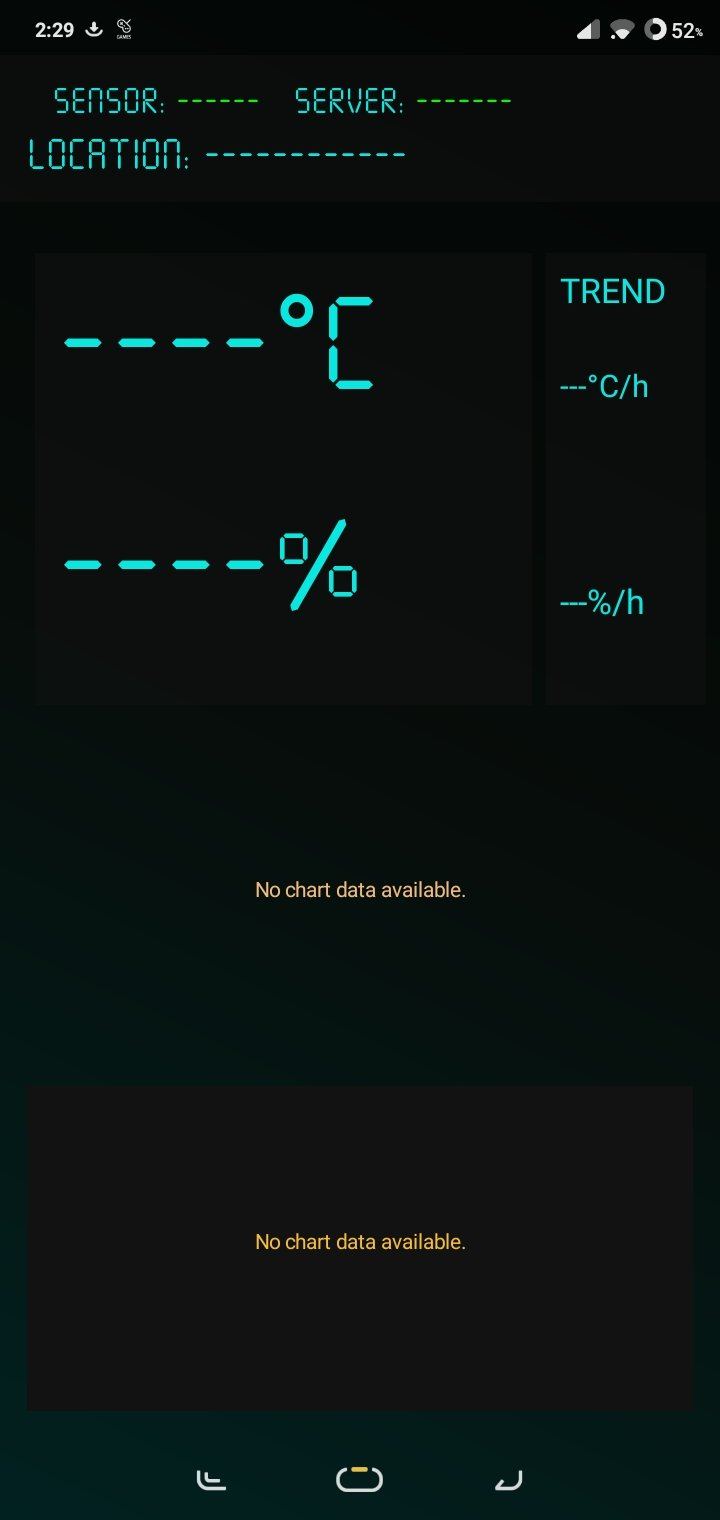
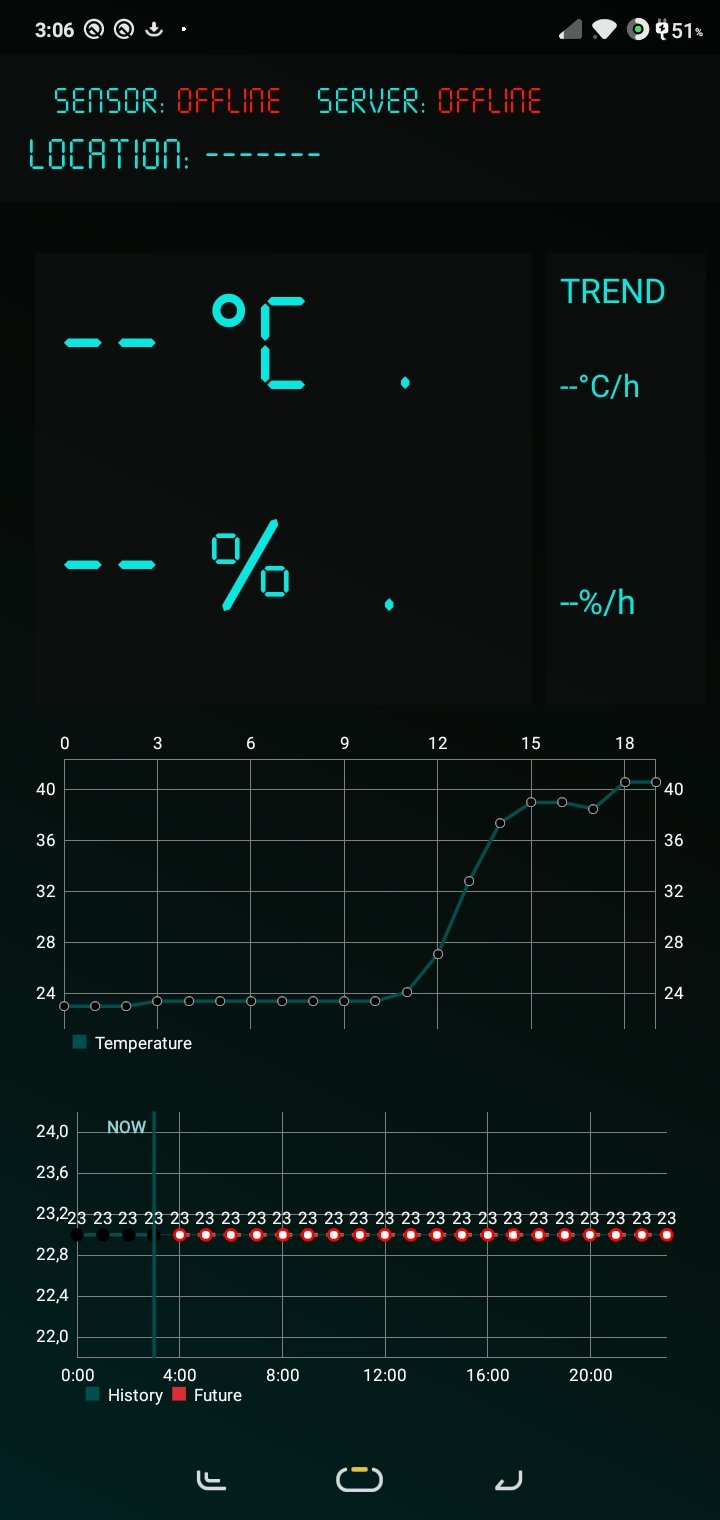
add screenshots and readme.md

diff --git a/app/src/main/java/pl/rjwaliczek/iot_app/MainActivity.kt b/app/src/main/java/pl/rjwaliczek/iot_app/MainActivity.kt
@@ -62,7 +62,6 @@ class MainActivity : AppCompatActivity() {
         trendHumi = findViewById(R.id.trendHumi)
         deviceStatusText = findViewById(R.id.deviceStatusText)
 
-        dayChart.setBackgroundColor(Color.parseColor("#121212"))
         dayChart.isHighlightPerTapEnabled = false
         dayChart.isHighlightPerDragEnabled = false
 
@@ -98,7 +97,7 @@ class MainActivity : AppCompatActivity() {
             setDrawValues(false)
             highLightColor = Color.RED
         }
-
+        lineChart.description.isEnabled = false
         lineChart.data = LineData(dataSet)
         lineChart.invalidate()
     }
@@ -112,7 +111,7 @@ class MainActivity : AppCompatActivity() {
                     call: Call<List<Measurement>>,
                     response: Response<List<Measurement>>
                 ) {
-                    if(response.isSuccessful) {
+
 
                         statusText.text = "ONLINE"
                         statusText.setTextColor(Color.GREEN)
@@ -145,23 +144,34 @@ class MainActivity : AppCompatActivity() {
                             }
 
                         } else {
-                            tempText.text = "-- °C"
-                            humiText.text = "-- %"
-                            locationText.text = "---"
+                            tempText.text = "-- °C  ."
+                            humiText.text = "-- %  ."
+                            locationText.text = "-------"
+                            statusText.text = "OFFLINE"
+                            deviceStatusText.text = "OFFLINE"
+                            deviceStatusText.setTextColor(Color.RED)
+
+                            statusText.setTextColor(Color.RED)
+                            trendTemp.text = "--°C/h"
+                            trendHumi.text = "--%/h"
                         }
 
                         updateChart(data)
                         updateDayChart(data)
-                    } else {
-                        statusText.text = "OFFLINE"
-                        statusText.setTextColor(Color.RED)
-                    }
+
                 }
 
                 override fun onFailure(call: Call<List<Measurement>>, t: Throwable) {
-                    tempText.text = "-- °C"
-                    humiText.text = "-- %"
+                    tempText.text = "-- °C  ."
+                    humiText.text = "-- %  ."
                     locationText.text = "-------"
+                    statusText.text = "OFFLINE"
+                    deviceStatusText.text = "OFFLINE"
+                    deviceStatusText.setTextColor(Color.RED)
+
+                    statusText.setTextColor(Color.RED)
+                    trendTemp.text = "--°C/h"
+                    trendHumi.text = "--%/h"
                 }
             })
     }

diff --git a/README.md b/README.md
@@ -23,6 +23,7 @@ Aplikacja wyświetla temperaturę oraz wilgotność pobieraną z backendowego AP
 <p align="center">
   <img src="screenshot/1.png" width="250">
   <img src="screenshot/2.png" width="250">
+  <img src="screenshot/3.png" width="250">
 </p>
 
 ```text